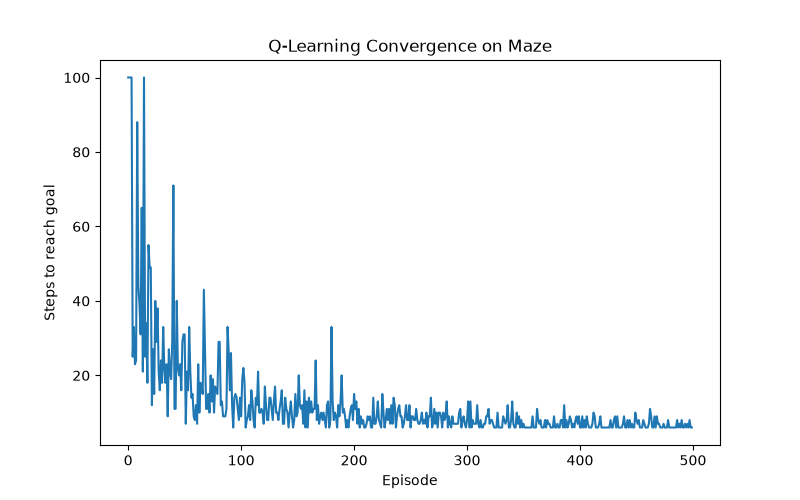
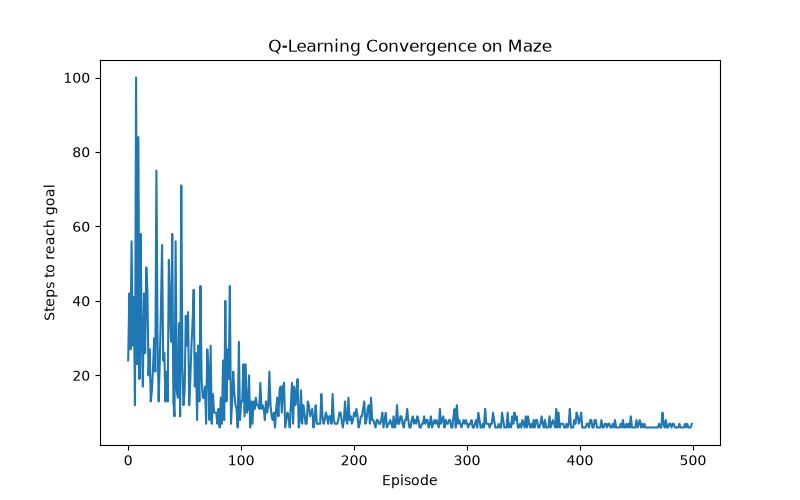
Added Time learning curve

Changed region(s): [[0.1562, 0.15, 0.875, 0.87]]

diff --git a/train.py b/train.py
@@ -1,4 +1,5 @@
 import numpy as np
+import time
 from maze import Maze
 from agent import QLearningAgent
 
@@ -19,8 +20,10 @@ def train(maze, agent, n_episodes=500, max_steps=100):
     Returns a list of step-counts per episode (for plotting later).
     """
     steps_per_episode = []
+    times_per_episode = []
 
     for episode in range(n_episodes):
+        episod_start = time.time()
         state = maze.start
         steps = 0
         done = False
@@ -38,11 +41,12 @@ def train(maze, agent, n_episodes=500, max_steps=100):
 
         agent.decay_epsilon()
         steps_per_episode.append(steps)
+        times_per_episode.append(time.time() - episod_start)
 
         if (episode + 1) % 50 == 0:
             print(f"Episode {episode + 1}/{n_episodes}, steps: {steps}, epsilon: {agent.epsilon:.3f}")
 
-    return steps_per_episode
+    return steps_per_episode, times_per_episode
 
 
 if __name__ == "__main__":
@@ -57,8 +61,10 @@ if __name__ == "__main__":
     maze = Maze(grid, start, goal)
     agent = QLearningAgent(maze_shape=grid.shape)
 
+    start_time = time.time()
     steps_history = train(maze, agent, n_episodes=500)
 
     print("Training complete.")
+    print(f"Training took {time.time() - start_time:.4f} seconds.")
     print(f"First episode steps: {steps_history[0]}")
     print(f"Last episode steps: {steps_history[-1]}")

diff --git a/visualise.py b/visualise.py
@@ -1,3 +1,4 @@
+import time
 import numpy as np
 import matplotlib.pyplot as plt
 from maze import Maze
@@ -25,6 +26,15 @@ def get_greedy_path(maze, agent, max_steps=50):
         state = maze.step(action, state)
         path.append(state)
     return path
+
+def plot_episode_times(times_per_episode):
+    plt.figure(figsize=(8, 5))
+    plt.plot(times_per_episode)
+    plt.xlabel("Episode")
+    plt.ylabel("Time (seconds)")
+    plt.title("Per-Episode Training Time")
+    plt.savefig("episode_times.png")
+    plt.show()
 
 def plot_solved_maze(maze, path):
     grid = maze.grid.copy().astype(float)
@@ -55,8 +65,12 @@ if __name__ == "__main__":
     maze = Maze(grid, start, goal)
     agent = QLearningAgent(maze_shape=grid.shape)
 
-    steps_history = train(maze, agent, n_episodes=500)
+    start_time = time.time()
+    steps_history, times_history = train(maze, agent, n_episodes=500)
+    print(f"Training took {time.time() - start_time:.4f} seconds")
+
     plot_learning_curve(steps_history)
+    plot_episode_times(times_history)
 
     path = get_greedy_path(maze, agent)
     print(f"Learned path: {path}")

diff --git a/README.md b/README.md
@@ -19,6 +19,7 @@ Over hundreds of episodes, reward signal propagates backward through the Q-table
 - Trained (by ~episode 50): consistently solves the maze in 6–9 steps (near-optimal for the test maze).
 
 ![Learning curve](learning_curve.png)
+![Training time per episode](episode_times.png)
 ![Solved maze](solved_maze.png)
 
 ## Project structure
